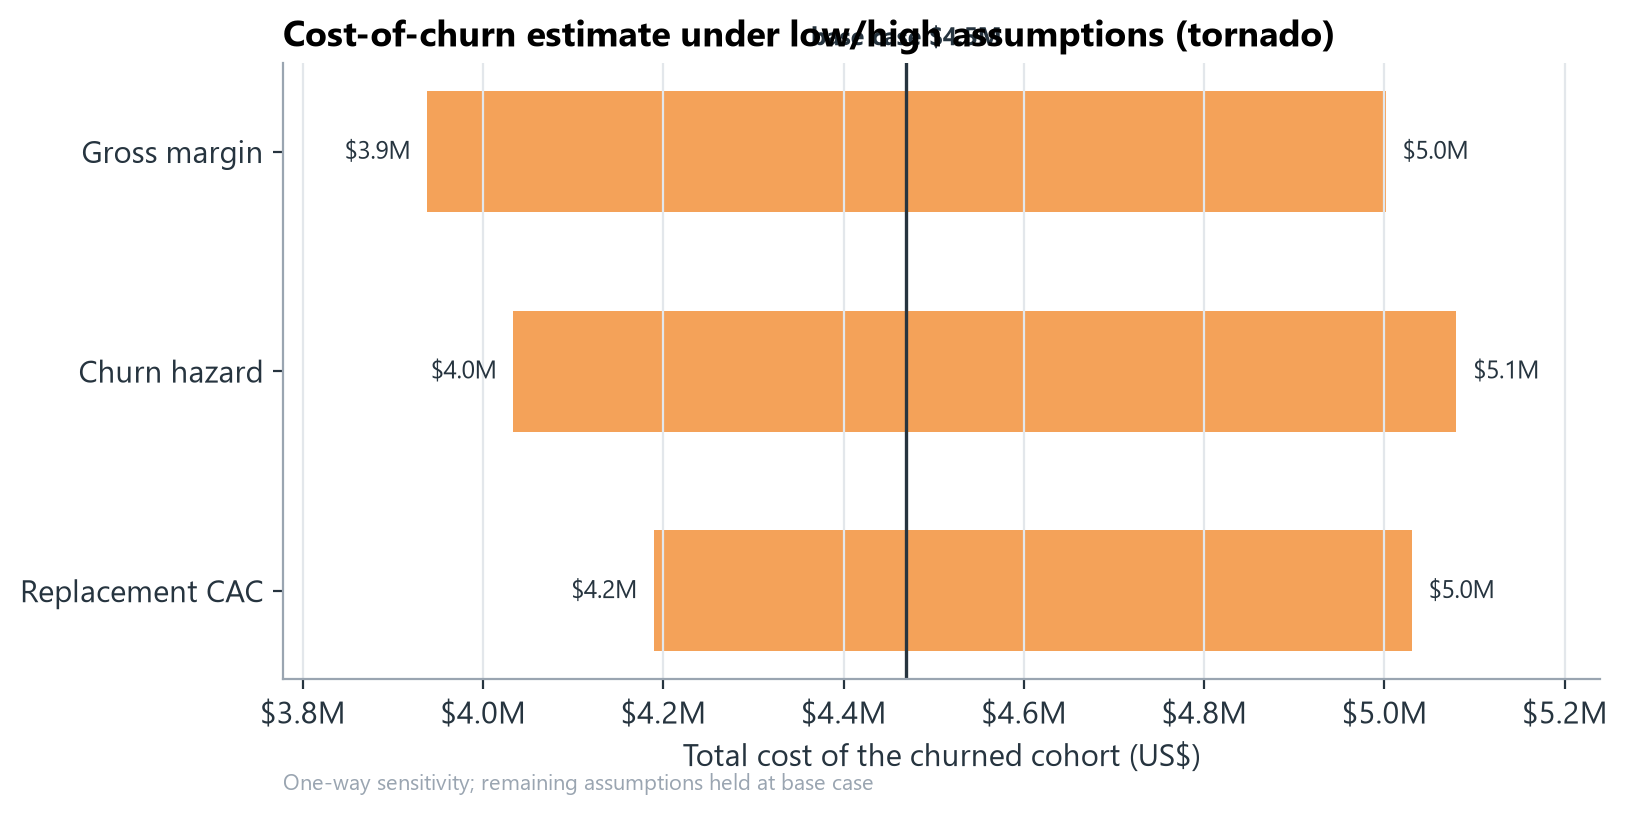
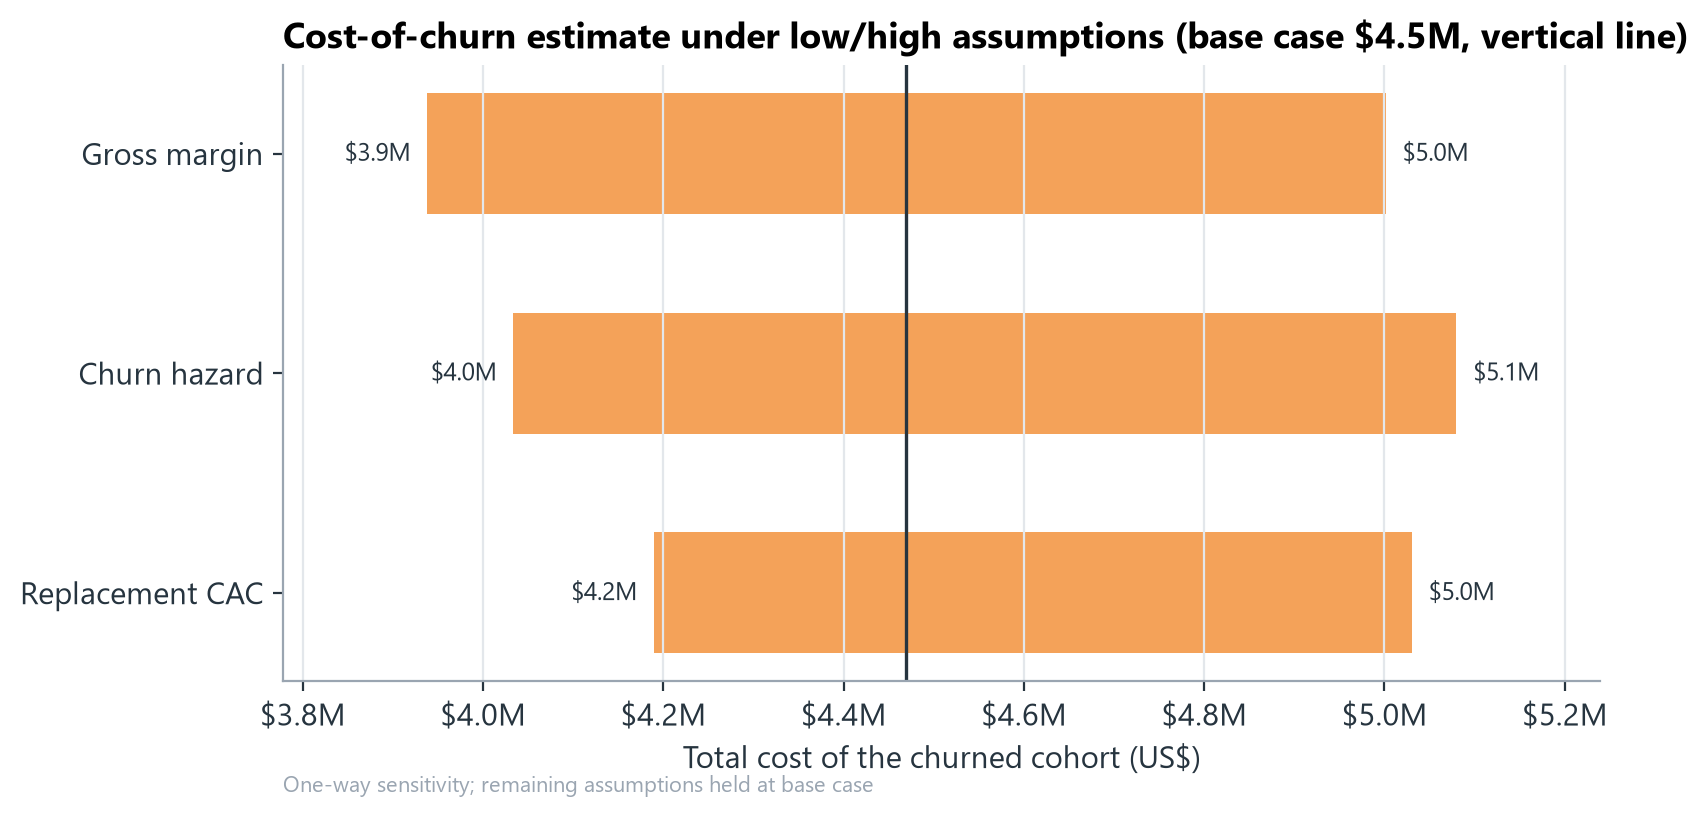
Fix tornado chart title collision with base-case label

diff --git a/src/ltv.py b/src/ltv.py
@@ -258,12 +258,11 @@ def plot_sensitivity_tornado(df: pd.DataFrame) -> str:
                     textcoords="offset points", va="center", fontsize=9,
                     color=PALETTE["dark"])
     ax.axvline(base, color=PALETTE["dark"], linewidth=1.2)
-    ax.annotate(f"base case ${base/1e6:,.1f}M",
-                xy=(base, 1.02), xycoords=("data", "axes fraction"),
-                xytext=(0, 2), textcoords="offset points", ha="center",
-                fontsize=9, color=PALETTE["dark"], fontweight="bold")
     ax.set_yticks(y, t["assumption"])
-    ax.set_title("Cost-of-churn estimate under low/high assumptions (tornado)")
+    # Base case goes in the title: an annotation at the top of the axvline
+    # collides with the title text at this figure size
+    ax.set_title(f"Cost-of-churn estimate under low/high assumptions "
+                 f"(base case ${base/1e6:,.1f}M, vertical line)")
     ax.set_xlabel("Total cost of the churned cohort (US$)")
     ax.xaxis.set_major_formatter(lambda x, _: f"${x/1e6:,.1f}M")
     ax.grid(axis="x")